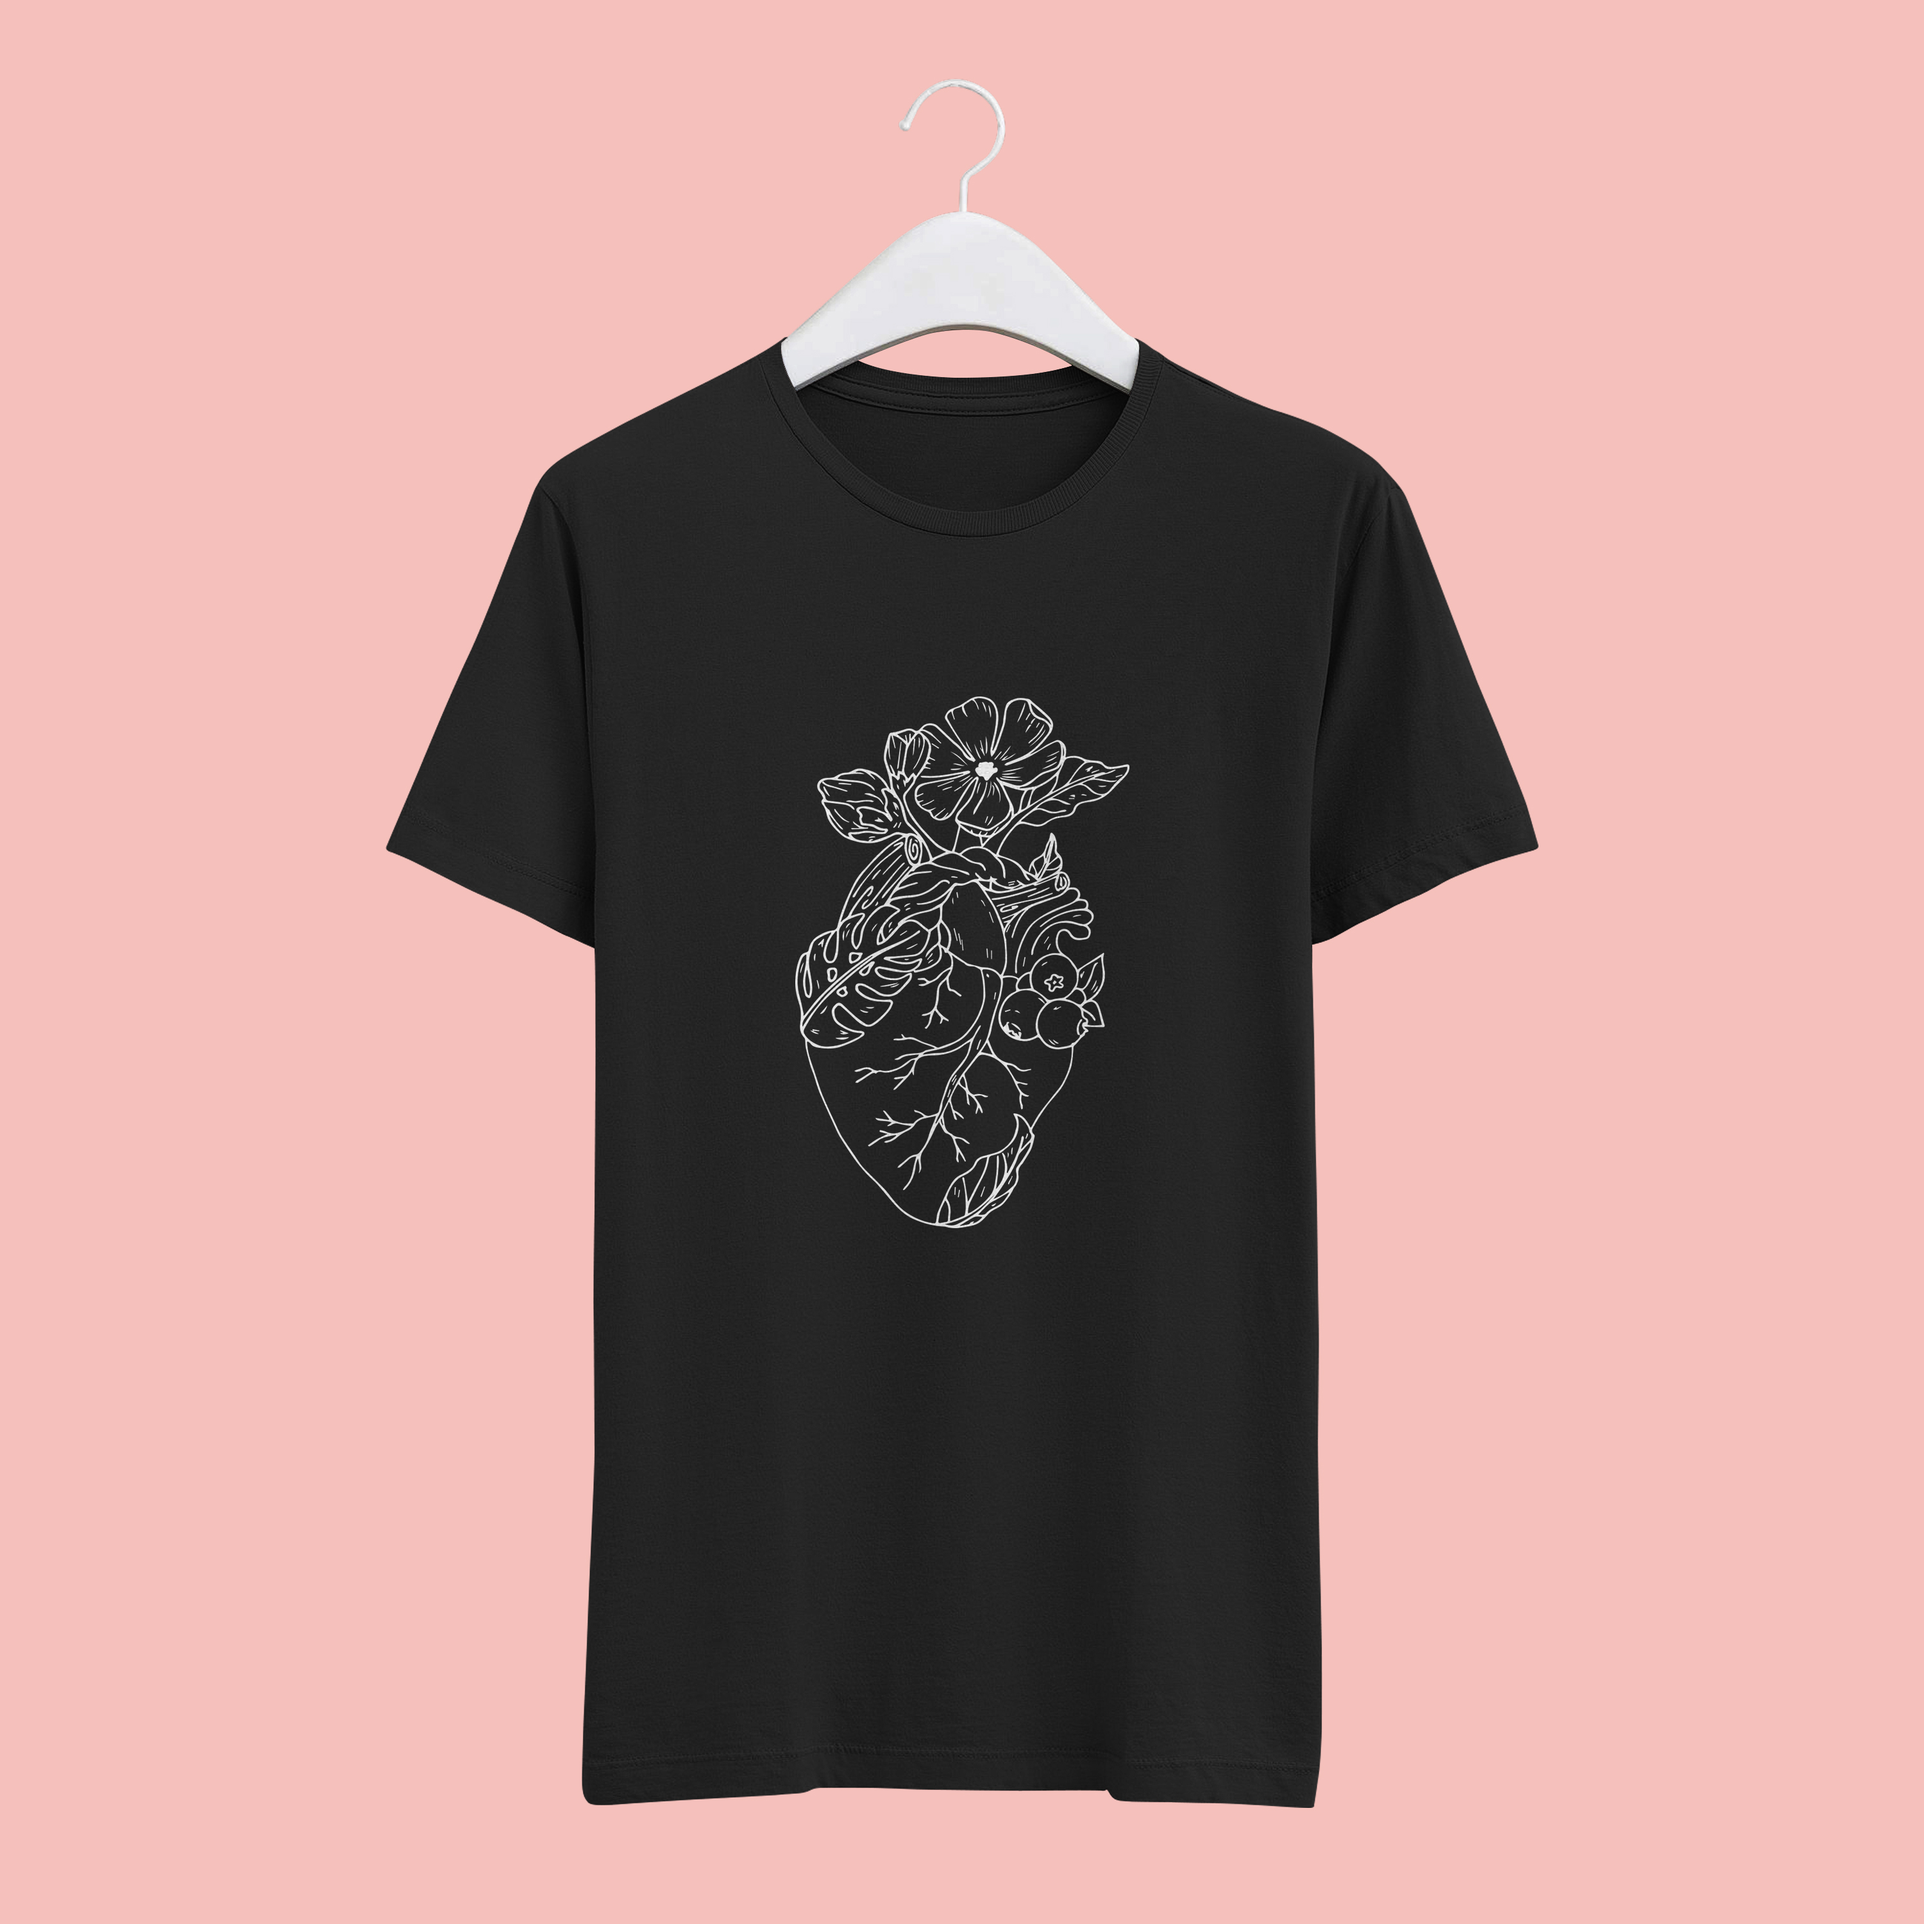
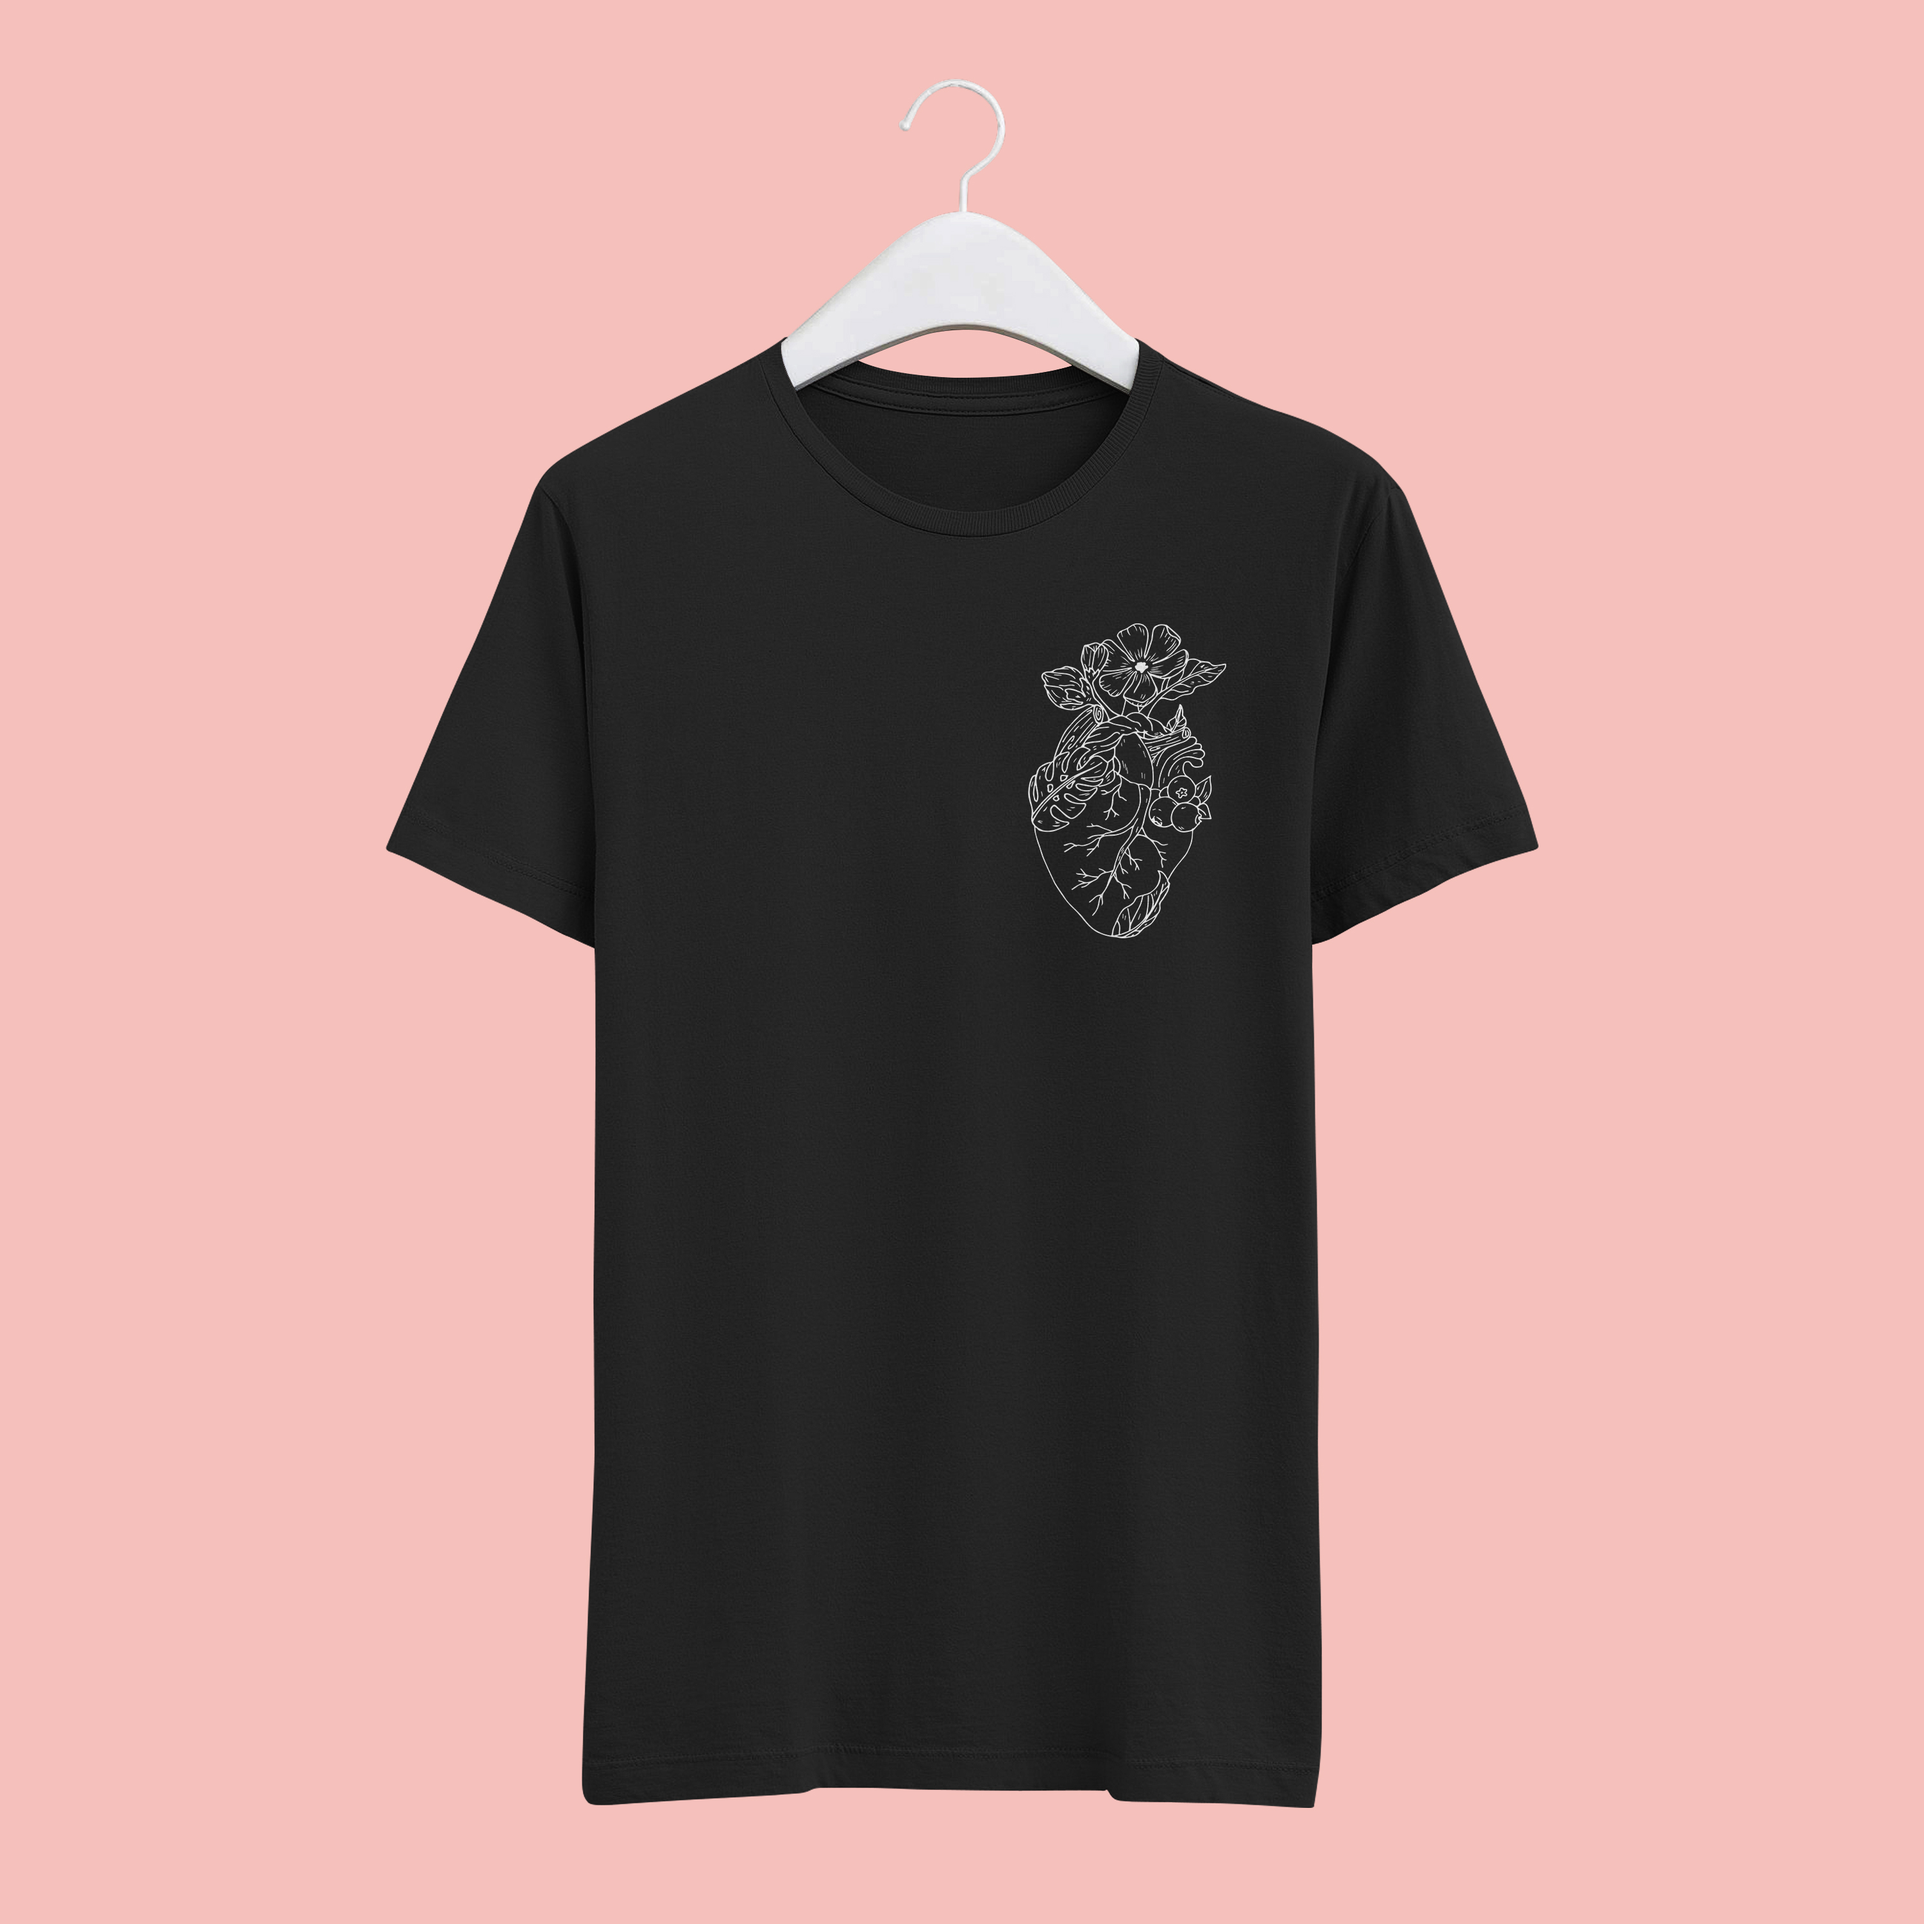
Add colors for tees

Changed region(s): [[0.403, 0.31, 0.62, 0.589], [0.496, 0.589, 0.527, 0.651]]

diff --git a/products/tees/natural-heart.md b/products/tees/natural-heart.md
@@ -4,11 +4,18 @@ id: '2'
 price: '10'
 title: NATURAL HEART
 description: 'Nulla non pretium metus, vitae finibus lectus.'
-default_thumbnail_image: images/tees/natural-heart/natural-heart-pocket_red.jpg
-default_original_image: images/tees/natural-heart/natural-heart-pocket_red.jpg
+default_thumbnail_image: images/tees/natural-heart/natural-heart_red.jpg
+default_original_image: images/tees/natural-heart/natural-heart_red.jpg
 featured: true
 order: 3
 category: category/tees.md
+colors:
+  - color: rgba(255,255,255,0)
+    altName: white
+  - color: rgba(0,0,0,1)
+    altName: black
+  - color: rgba(156, 0, 0, 0.8)
+    altName: red
 seo:
   title: Curabitur eu tempor
   description: 'Nulla non pretium metus, vitae finibus lectus'
@@ -23,7 +30,7 @@ seo:
       value: 'Nulla non pretium metus, vitae finibus lectus'
       keyName: property
     - name: 'og:image'
-      value: images/tees/natural-heart/natural-heart-pocket_red.jpg
+      value: images/tees/natural-heart/natural-heart_red.jpg
       keyName: property
       relativeUrl: true
     - name: 'twitter:card'
@@ -33,7 +40,7 @@ seo:
     - name: 'twitter:description'
       value: 'Nulla non pretium metus, vitae finibus lectus'
     - name: 'twitter:image'
-      value: images/tees/natural-heart/natural-heart-pocket_red.jpg
+      value: images/tees/natural-heart/natural-heart_red.jpg
       relativeUrl: true
 ---
 

diff --git a/products/tees/wildtree.md b/products/tees/wildtree.md
@@ -13,12 +13,14 @@ order: 1
 category: category/tees.md
 price: '10'
 colors:
-  - color: rgba(0,0,0,1) #black
-    altName: black
-  - color: rgba(255,0,0,1) #red
-    altName: red
-  - color: rgba(255,255,255,0.50) #white
+  - color: rgba(255,255,255,0)
     altName: white
+  - color: rgba(0,0,0,1)
+    altName: black
+  - color: rgba(156, 0, 0, 0.8)
+    altName: red
+  - color: rgba(7, 69, 12, 0.91)
+    altName: green
 seo:
   title: WILD TREEE
   description: 'Lorem ipsum dolor sit amet, consectetur adipiscing elit'

diff --git a/products/tees/marine-journey.md b/products/tees/marine-journey.md
@@ -8,6 +8,13 @@ default_thumbnail_image: images/tees/marine-journey/marine-journey_blue.jpg
 default_original_image: images/tees/marine-journey/marine-journey_blue.jpg
 order: 6
 category: category/tees.md
+colors:
+  - color: rgba(255,255,255,0)
+    altName: white
+  - color: rgba(18, 47, 110, 0.83)
+    altName: blue
+  - color: rgba(34, 169, 172, 0.83)
+    altName: turqoise
 seo:
   title: Sed consectetur
   description: Fusce sed tortor id diam rhoncus accumsan

diff --git a/products/tees/feelings.md b/products/tees/feelings.md
@@ -11,6 +11,15 @@ default_original_image: images/tees/feelings/feelings_grey.jpg
 featured: false
 order: 4
 category: category/tees.md
+colors:
+  - color: rgba(255,255,255,0)
+    altName: white
+  - color: rgba(0,0,0,1)
+    altName: black
+  - color: rgba(8, 68, 10, 0.83)
+    altName: green
+  - color: rgba(86, 126, 142, 0.8)
+    altName: grey
 seo:
   title: Vestibulum eget
   description: 'Donec finibus, augue in sagittis auctor, mi neque convallis arcu'

diff --git a/products/tees/shushi.md b/products/tees/shushi.md
@@ -11,6 +11,13 @@ default_original_image: images/tees/sushi/sushi_red.jpg
 featured: false
 order: 7
 category: category/tees.md
+colors:
+  - color: rgba(255,255,255,0)
+    altName: white
+  - color: rgba(0,0,0,1)
+    altName: black
+  - color: rgba(156, 0, 0, 0.8)
+    altName: red
 seo:
   title: Vestibulum eget
   description: 'Donec finibus, augue in sagittis auctor, mi neque convallis arcu'

diff --git a/products/tees/bee-free.md b/products/tees/bee-free.md
@@ -13,7 +13,13 @@ order: 2
 category: category/tees.md
 colors:
   - color: rgba(255,255,255,0)
+    altName: white
   - color: rgba(0,0,0,1)
+    altName: black
+  - color: rgba(156, 0, 0, 0.8)
+    altName: red
+  - color: rgba(86, 126, 142, 0.8)
+    altName: grey
 seo:
   title: Vestibulum eget
   description: 'Donec finibus, augue in sagittis auctor, mi neque convallis arcu'

diff --git a/products/tees/frida-catlo.md b/products/tees/frida-catlo.md
@@ -11,6 +11,9 @@ default_original_image: images/tees/frida-catlo/frida-catlo_white.jpg
 featured: true
 order: 5
 category: category/tees.md
+colors:
+  - color: rgba(255,255,255,0)
+    altName: white
 seo:
   title: Vestibulum eget
   description: 'Donec finibus, augue in sagittis auctor, mi neque convallis arcu'
